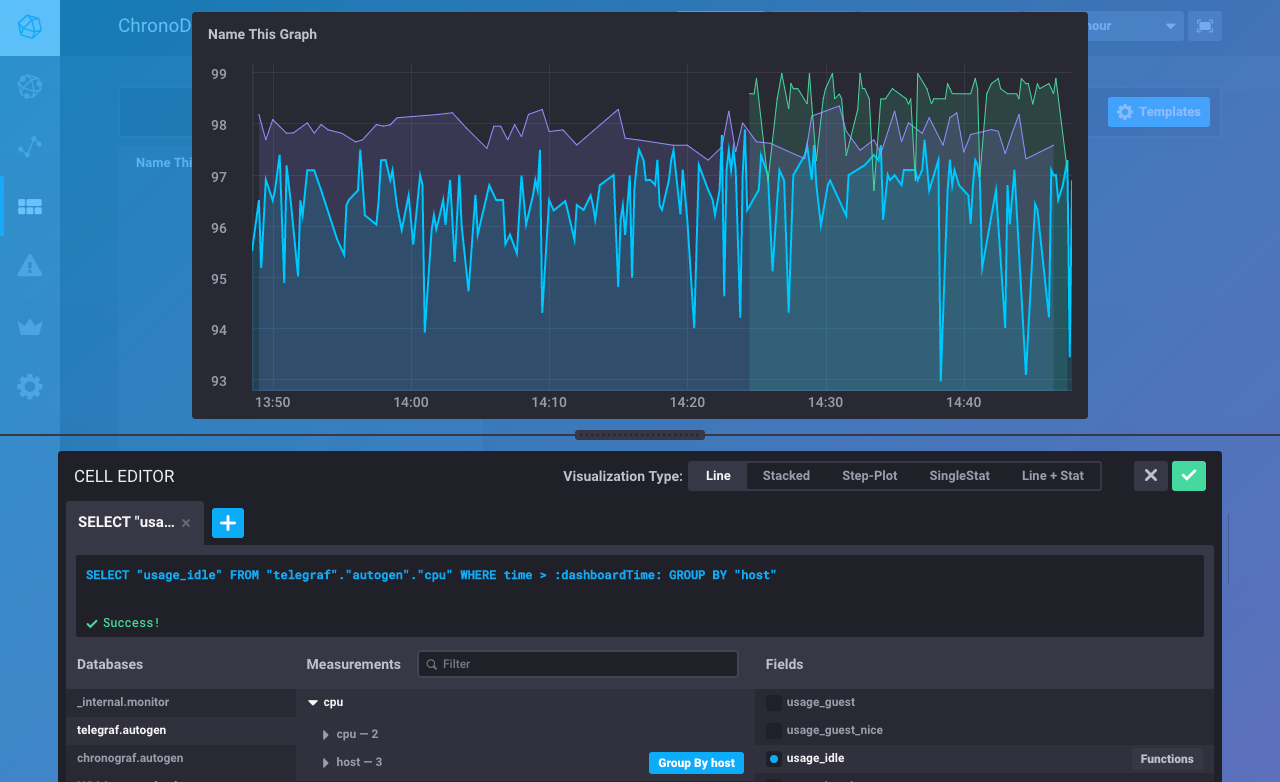
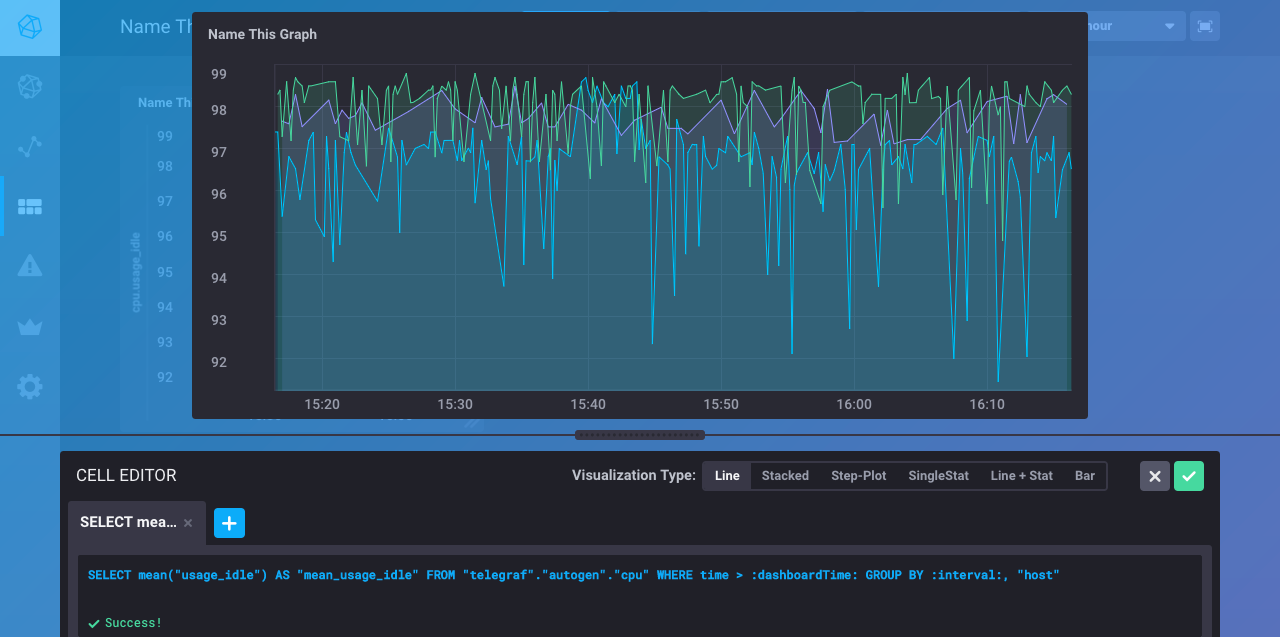
Add links to changelog and update dashboards guide

diff --git a/content/chronograf/v1.3/guides/create-a-dashboard.md b/content/chronograf/v1.3/guides/create-a-dashboard.md
@@ -48,28 +48,15 @@ Alternatively, manually enter and edit a query.
 Chronograf allows you to move seamlessly between using the builder and manually editing the query; when possible, the interface automatically populates the builder with the information from your raw query.
 
 Here, we use the builder to generate a query that shows the average idle CPU usage grouped by host (in this case, there are three hosts).
-By default, Chronograf shows data from the past one hour; that time range is [configurable on the dashboard](#step-6-configure-your-dashboard).
+By default, Chronograf applies the [`MEAN()` function](/influxdb/v1.2/query_language/functions/#mean) to the data, groups averages into auto-generated time intervals (`:interval:`), and shows data for the past one hour (`:dashboardTime:`).
+Those defaults are configurable via the builder or by manually editing the query.
+In addition, the time range (`:dashboardTime:`) is [configurable on the dashboard](#step-6-configure-your-dashboard).
 
 ![Build your query](/img/chronograf/v1.3/g-dashboard-builder.png)
 
 ### Step 4: Choose your visualization type
 
 Chronograf supports several [visualization types](/chronograf/v1.3/troubleshooting/frequently-asked-questions/#what-visualization-types-does-chronograf-support):
-
-**Line**  
-Show time-series in a line graph.
-
-**Stacked**  
-Show time-series arranged on top of each other.
-
-**Step-Plot**  
-Show time-series in a staircase graph.
- 
-**SingleStat**  
-Show the time-series' single most recent value.
- 
-**Line+Stat**  
-Show time-series in a line graph and overlay the time-series' single most recent value.
 
 Here, we choose the Step-Plot:
 

diff --git a/content/chronograf/v1.3/about_the_project/release-notes-changelog.md b/content/chronograf/v1.3/about_the_project/release-notes-changelog.md
@@ -20,9 +20,9 @@ menu:
 
 ### UI Improvements
 1. When dashboard time range is changed, reset graphs that are zoomed in
-1. Bar graph option added to dashboard
+1. [Bar graph](/chronograf/v1.3/troubleshooting/frequently-asked-questions/#bar) option added to dashboard
 1. Redesign source management table to be more intuitive
-1. Redesign Line + Single Stat cells to appear more like a sparkline, and improve legibility
+1. Redesign [Line + Single Stat](/chronograf/v1.3/troubleshooting/frequently-asked-questions/#line-stat) cells to appear more like a sparkline, and improve legibility
 
 
 ## v1.3.2.0 [2017-06-05]
